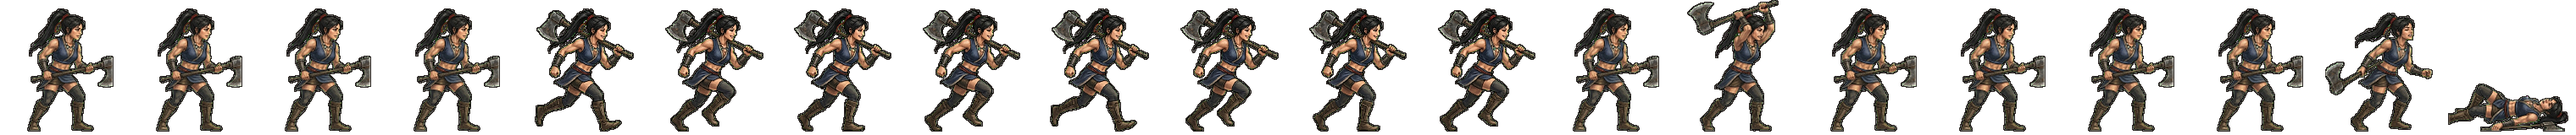
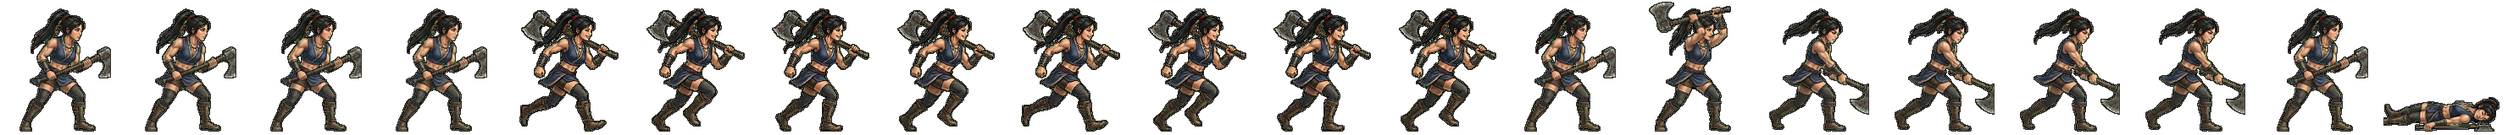
전투 띠 새로: haebi 동작 띠 다시 — 형이 구움 (굽기 꾸러미 · 검수 1·3번) (형 11-08)
Claude-Session: https://claude.ai/code/session_01TRiuNAG8xSjdmjCFpc8Rd5

diff --git a/src/ui/realm/battle-strikes.ts b/src/ui/realm/battle-strikes.ts
@@ -140,7 +140,7 @@ const CONTACT: Readonly<Record<string, [number, number, number]>> = {
   'gen-g-spear': [15, .99, .32], 'gen-g-sword': [16, .99, .33], 'gen-w-spear': [14, .98, .56],
   'gen-mount': [15, .98, .22], 'gen-ara': [14, 0.76, 0.94], 'gen-aryeong': [14, 0.94, 0.26],
   'gen-daeso': [14, 0.95, 0.34], 'gen-eureum': [14, .95, .13], 'gen-gamsil': [14, 0.94, 0.76],
-  'gen-haebi': [14, 0.87, 0.53], 'gen-heo': [14, 0.94, 0.46], 'gen-hyeokgeose': [14, 0.83, 0.94],
+  'gen-haebi': [14, 0.89, 0.73], 'gen-heo': [14, 0.94, 0.46], 'gen-hyeokgeose': [14, 0.83, 0.94],
   'gen-hyeopbo': [14, .93, .21], 'gen-malgalgi': [14, 0.88, 0.28], 'gen-mari': [14, .98, .47],
   'gen-oi': [14, .98, .48], 'gen-onjo': [14, 0.83, 0.93], 'gen-soebi': [14, 0.80, 0.95],
   'gen-soseono': [14, 0.92, 0.31], 'gen-maryeo': [14, 0.91, 0.79], 'gen-horselord': [14, 0.89, 0.25], 'gen-olddaeso': [14, 0.93, 0.91], 'gen-maro': [14, 0.97, 0.49], 'gen-gwaeyu': [14, 0.98, 0.71], 'gen-daemusin': [14, 0.91, 0.38], 'gen-tahae': [14, 0.91, 0.74], 'gen-ocheongan': [14, 0.82, 0.49], 'gen-yusugan': [14, 0.95, 0.70], 'gen-odogan': [14, 0.96, 0.33], 'gen-pidogan': [14, 0.94, 0.75], 'gen-yeodogan': [14, 0.93, 0.57], 'gen-adogan': [14, 0.95, 0.41], 'gen-musoe': [14, 0.94, 0.39], 'gen-suro': [14, 0.82, 0.53], 'gen-waechief': [14, 0.95, 0.68], 'gen-hojin': [14, 0.97, 0.64], 'gen-jita': [14, 0.93, 0.29], 'gen-guryema': [14, 0.89, 0.28], 'gen-jibaekho': [14, 0.97, 0.33], 'gen-sobeol': [14, 0.95, 0.33], 'gen-alpyeong': [14, 0.95, 0.54], 'gen-hogong': [14, 0.98, 0.27], 'gen-geumbawi': [14, 0.91, 0.92], 'gen-keundol': [14, 0.90, 0.68], 'gen-jinha': [14, 0.76, 0.93], 'gen-duman': [14, 0.97, 0.39], 'gen-gomok': [14, 0.94, 0.57], 'gen-hneoul': [14, 0.92, 0.27], 'gen-tneoul': [14, 0.84, 0.57], 'gen-sdallae': [14, 0.89, 0.29], 'gen-yucheongan': [14, 0.97, 0.64], 'gen-sincheongan': [14, 0.91, 0.71], 'gen-singwigan': [14, 0.98, 0.21], 'gen-mdallae': [14, 0.98, 0.29], 'gen-mulbeom': [14, 0.95, 0.39], 'gen-beomi': [14, 0.88, 0.43], 'gen-danbi': [14, 0.90, 0.30], 'gen-mulsae': [14, 0.92, 0.46], 'gen-darae': [14, 0.89, 0.29], 'gen-mir': [14, 0.91, 0.33], 'gen-wan': [14, 0.94, 0.30], 'gen-gom': [14, 0.94, 0.74], 'gen-sagong': [14, 0.79, 0.96], 'gen-halla': [14, 0.86, 0.46], 'gen-areum': [14, 0.86, 0.65], 'gen-dokmudeom': [14, 0.95, 0.28], 'gen-beom': [14, 0.98, 0.28], 'gen-baram': [14, 0.96, 0.24], 'gen-goeun': [14, 0.95, 0.66], 'gen-byeol': [14, 0.76, 0.96], 'gen-sinneoul': [14, 0.95, 0.33], 'gen-haesol': [14, 0.95, 0.39], 'gen-odi': [14, 0.95, 0.37], 'gen-irang': [14, 0.86, 0.30], 'gen-dalli': [14, 0.89, 0.32], 'gen-bakdal': [14, 0.94, 0.27], 'gen-noeul': [14, 0.88, 0.27], 'gen-maehwa': [14, 0.90, 0.31], 'gen-gaon': [14, 0.98, 0.48], 'gen-eomni': [14, 0.96, 0.42], 'gen-nuri': [14, 0.98, 0.42], 'gen-bira': [14, 0.88, 0.42], 'gen-gureum': [14, 0.98, 0.42],

diff --git a/src/realm/data/art.ts b/src/realm/data/art.ts
@@ -491,7 +491,7 @@ export const GEN_ANIM: Readonly<Partial<Record<string, { ar: number; body: numbe
   maenun: { ar: 146 / 160, body: 0.955, bow: true }, // 11-04 제 띠 (u/0 · 꿩깃 검은 두건·붉은 두루마기·가죽 미늘·맥궁 · 골포국 살해 매눈)
   hyeopbo: { ar: 163 / 160, body: 0.887 }, // 11-04 제 띠 (u/0 · 검은 머리띠 상투·가는 콧수염·무늬 검은 도포·가죽 갑옷 · 곧은 고리자루 칼 — 첫 판은 휜 칼이라 버림)
   malgalgi: { ar: 165 / 160, body: 0.906 }, // 11-08 초상대로 다시 (형: 「투구 쓰고 원본과 다르다」 · 제미나이 걷기 4×2 + 동작 4×2 → 20컷 · assets_src/realm/gemini/generals2) · 전투 옷은 더 드러나게 (형 11-08)
-  haebi: { ar: 152 / 160, body: 0.906 }, // 11-08 초상대로 다시 (형: 「투구 쓰고 원본과 다르다」 · 제미나이 걷기 4×2 + 동작 4×2 → 20컷 · assets_src/realm/gemini/generals2) · 전투 옷은 더 드러나게 (형 11-08)
+  haebi: { ar: 148 / 160, body: 0.900 }, // 11-08 초상대로 다시 (형: 「투구 쓰고 원본과 다르다」 · 제미나이 걷기 4×2 + 동작 4×2 → 20컷 · assets_src/realm/gemini/generals2) · 11-08 처음 · haebi 동작 띠 다시 — 형이 구움 (굽기 꾸러미 · 검수 1·3번)
   soebi: { ar: 156 / 160, body: 0.906 }, // 11-08 초상대로 다시 (형: 「투구 쓰고 원본과 다르다」 · 제미나이 걷기 4×2 + 동작 4×2 → 20컷 · assets_src/realm/gemini/generals2) · 쇠 덩이 묶음 대신 큰 쇠망치
   ara: { ar: 157 / 160, body: 0.906 }, // 11-08 초상대로 다시 (형: 「투구 쓰고 원본과 다르다」 · 제미나이 걷기 4×2 + 동작 4×2 → 20컷 · assets_src/realm/gemini/generals2)
   heo: { ar: 145 / 160, body: 0.900 }, // 11-08 초상대로 다시 (형: 「투구 쓰고 원본과 다르다」 · 제미나이 걷기 4×2 + 동작 4×2 → 20컷 · assets_src/realm/gemini/generals2) · 갑옷 대신 보석 윗옷·트임 치마 (형: 전투 옷은 더 드러나게)
